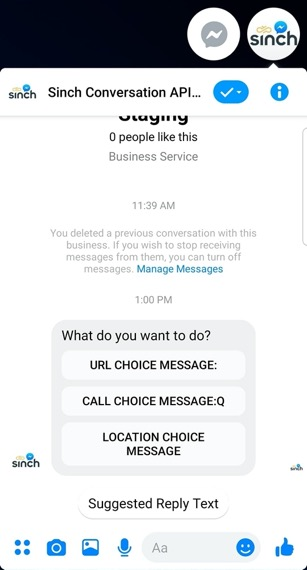
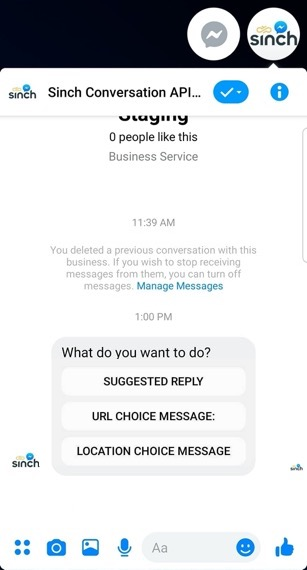
fix messenger screeshots

Changed region(s): [[0.1759, 0.3579, 0.8502, 0.8053], [0.2932, 0.8649, 0.7329, 0.8947], [0.9674, 0.4175, 0.9967, 0.4474]]

diff --git a/docs/conversation/conversation-channel-support/conversation-facebook-messenger.md b/docs/conversation/conversation-channel-support/conversation-facebook-messenger.md
@@ -181,7 +181,7 @@ Conversation API POST `messages:send`
 {
   "message": {
     "text_message": {
-      "text": "Text message from Sinch Conversation API."
+      "text": "Greetings from Sinch Conversation API!"
     }
   }
 }
@@ -239,7 +239,7 @@ Conversation API POST `messages:send`
       "choices": [
         {
           "text_message": {
-            "text": "Suggested Reply Text"
+            "text": "Suggested Reply"
           }
         },
         {
@@ -247,13 +247,7 @@ Conversation API POST `messages:send`
             "title": "URL Choice Message:",
             "url": "https://www.sinch.com"
           }
-        },
-        {
-          "call_message": {
-            "title": "Call Choice Message:Q",
-            "phone_number": "46732000000"
-          }
-        },
+        }
         {
           "location_message": {
             "title": "Location Choice Message",
@@ -308,25 +302,15 @@ Conversation API POST `messages:send`
           }
         },
         {
-          "url_message": {
-            "title": "URL Choice Message:",
-            "url": "https://www.sinch.com"
-          }
-        },
-        {
           "call_message": {
-            "title": "Call Choice Message:Q",
+            "title": "Someone",
             "phone_number": "46732000000"
           }
         },
         {
-          "location_message": {
-            "title": "Location Choice Message",
-            "label": "Enriching Engagement",
-            "coordinates": {
-              "latitude": 55.610479,
-              "longitude": 13.002873
-            }
+          "url_message": {
+            "title": "Sinch",
+            "url": "https://www.sinch.com"
           }
         }
       ]
